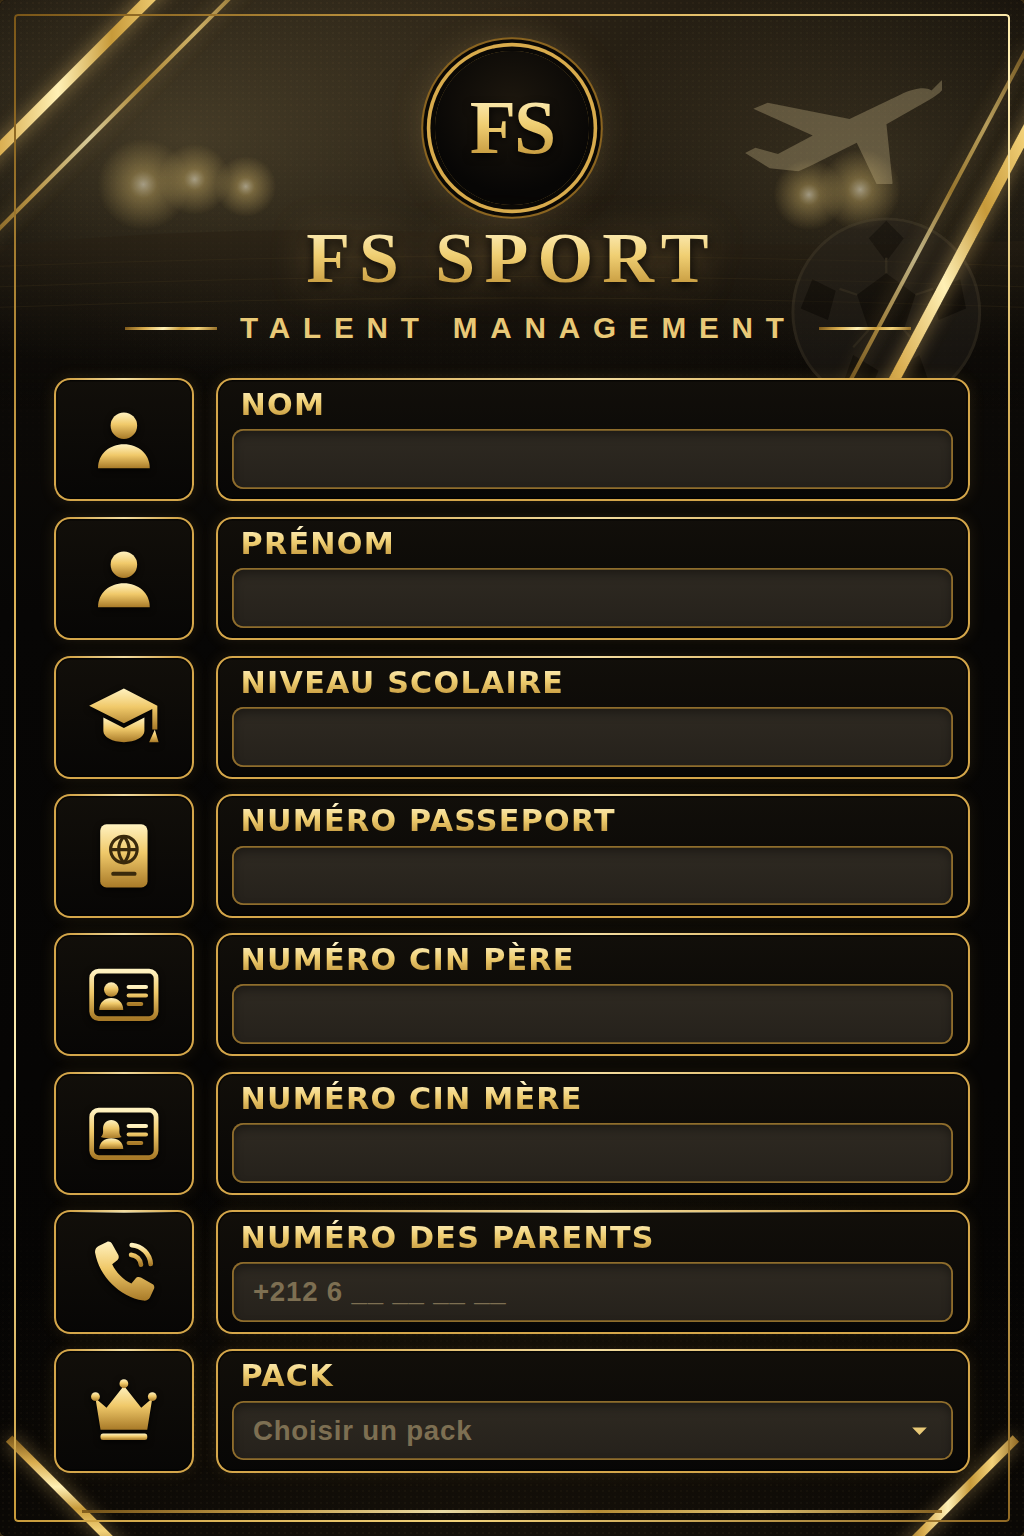
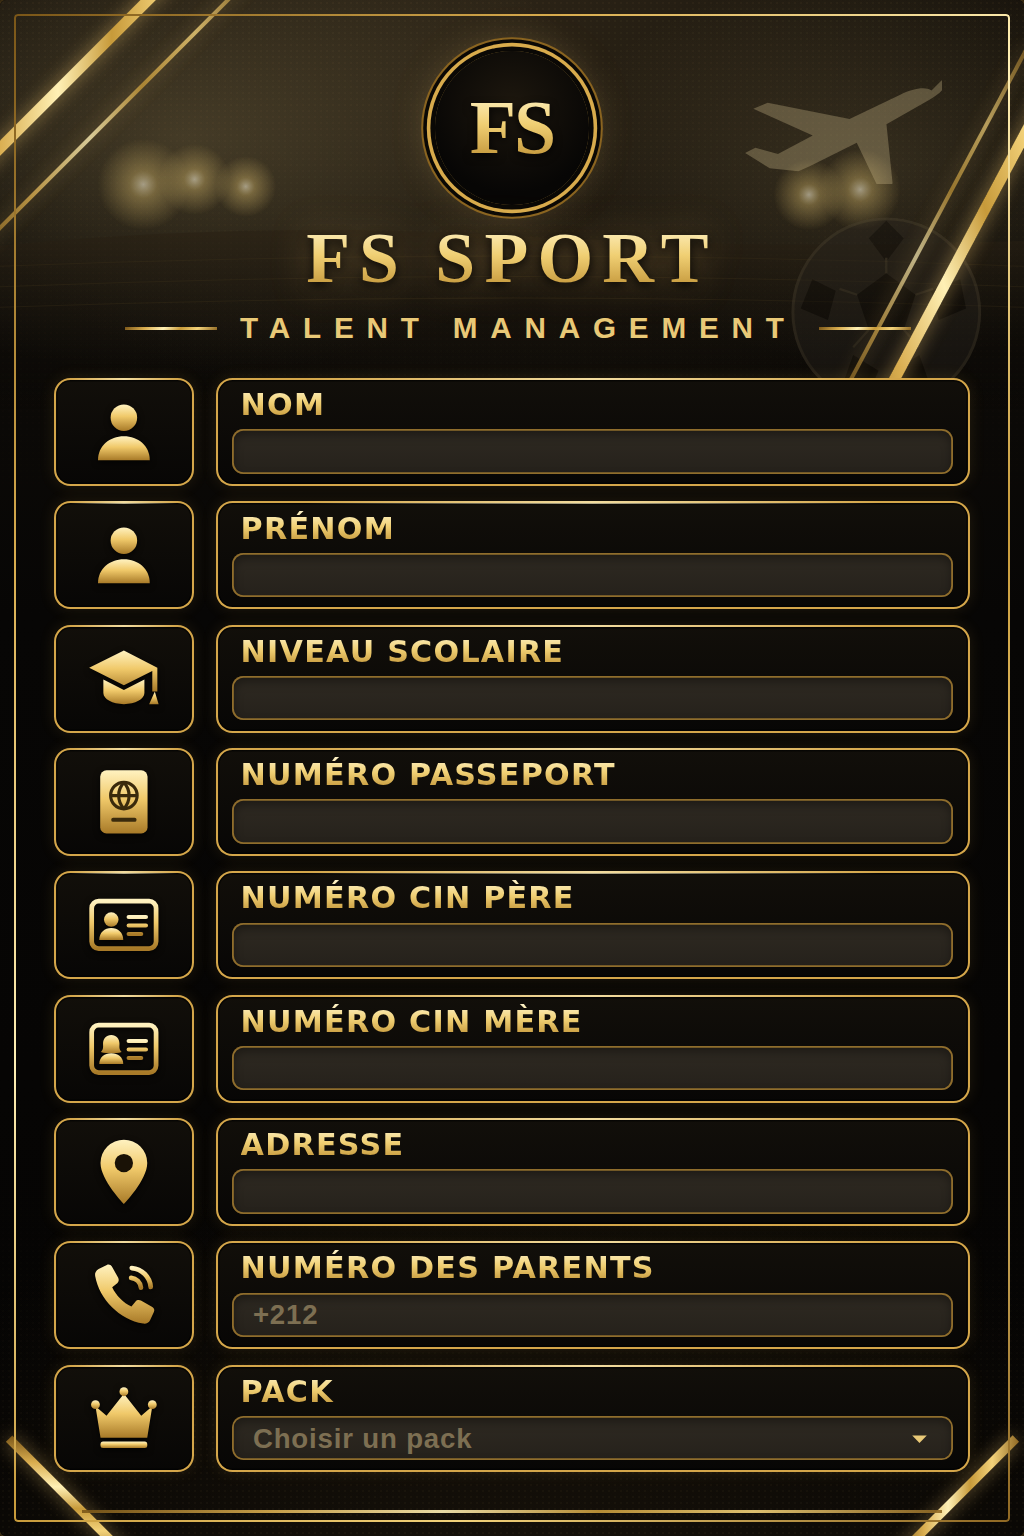
Add Adresse field and simplify parents' phone placeholder to +212
Claude-Session: https://claude.ai/code/session_01FrapVZncPD84Es2LA3ffQF

Changed region(s): [[0.0312, 0.25, 0.9688, 0.9688]]

diff --git a/index.html b/index.html
@@ -227,8 +227,13 @@
       </div>
 
       <div class="row">
+        <div class="icon"><svg viewBox="0 0 24 24"><path d="M12 1.8a7.4 7.4 0 0 0-7.4 7.4c0 5.4 7.4 13 7.4 13s7.4-7.6 7.4-13A7.4 7.4 0 0 0 12 1.8z" fill="url(#g)"/><circle cx="12" cy="9.2" r="2.9" fill="#1a1206"/></svg></div>
+        <div class="field"><label for="adresse">Adresse</label><input id="adresse" name="adresse"></div>
+      </div>
+
+      <div class="row">
         <div class="icon"><svg viewBox="0 0 24 24"><path d="M6.6 2.5c.6-.3 1.3 0 1.6.5l2 3.6c.3.6.2 1.3-.3 1.7L8.3 9.6c1.1 2.5 3.6 5 6.1 6.1l1.3-1.6c.4-.5 1.1-.6 1.7-.3l3.6 2c.6.3.8 1 .5 1.6l-1.2 2.6c-.4.8-1.3 1.3-2.2 1.1C10.6 19.8 4.2 13.4 2.9 6c-.2-.9.3-1.8 1.1-2.2z" fill="url(#g)"/><path d="M14.5 3.5a6.5 6.5 0 0 1 6 6M14.3 6.6a3.4 3.4 0 0 1 3.1 3.1" fill="none" stroke="url(#g)" stroke-width="1.5" stroke-linecap="round"/></svg></div>
-        <div class="field"><label for="tel">Numéro des parents</label><input id="tel" name="numero_parents" type="tel" inputmode="tel" placeholder="+212 6 __ __ __ __"></div>
+        <div class="field"><label for="tel">Numéro des parents</label><input id="tel" name="numero_parents" type="tel" inputmode="tel" placeholder="+212"></div>
       </div>
 
       <div class="row">
